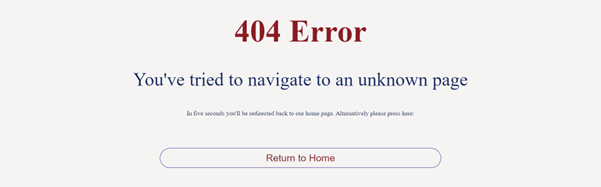
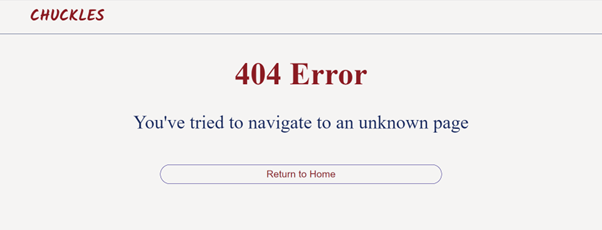
update README images and accessibility section following changes

diff --git a/README.md b/README.md
@@ -1,6 +1,7 @@
 # Chuckles Comedy Club
 
 The Chuckles Comedy Club website is an information website, for a comedy club specialising in American comics, based in London, UK.
+
 This website is designed to provide information about the comedy club such as which acts will be performing, opening hours and how to find the venue
 
 ![am-i-responsive](assets/readme-images/am-i-responsive.png)
@@ -81,7 +82,7 @@ Visit the deployed site here: [Chuckles Comedy Club](<https://gkicks.github.io/c
 
 ## Initial Discussion
 
-Chuckles Comedy Club is a venue where the USP is that the performers are all American comedians. The website is user-friendly and easy to navigate, allowing users to quickly find the information they need.
+Chuckles Comedy Club is a venue where the unique selling point is that the performers are all American comedians. The website is user-friendly and easy to navigate, allowing users to quickly find the information they need.
 
 ### Key Information for the Site
 
@@ -226,7 +227,7 @@ View mobile wireframes on the Figma site: [Mobile](https://www.figma.com/file/rP
 * The footer features on all three main pages of the website as well as the thank you page following the user completing the signup form
 * The footer contain links to the social media sites Facebook, Twitter and Instagram. Chuckles Comedy Club currently doesn’t have social media pages but, once these are created, the links will link to these
 * The styling of the footer reflects that of the header to simplify the user experience
-* Each footer item have an aria link to improve accessibility for those using assistive technology
+* The footer does not contain aria-labels as the words already explain what the link is for
 
 ![Footer screenshot](assets/readme-images/footer.png)
 
@@ -250,14 +251,14 @@ View mobile wireframes on the Figma site: [Mobile](https://www.figma.com/file/rP
 ### Thank You
 
 * The thank you page is displayed when the sign up form is submitted. This gives the user confirmation that their request has been received
-* The thank you page informs the user that they will be redirected back to the home page in five seconds and also gives the option to press a ‘return to home’ button to return to the index.html page
+* There is a 'Return to Home' button so the user can easily navigate back te Home page
 
 ![Thank you screenshot](assets/readme-images/thankyou.png)
 
 ### 404.html
 
 * Following advice from my mentor I added a custom 404.html page. This will be displayed if a user makes a typing error when entering the url of the website
-* The 404.html page informs the user they have tried to navigate to an unknown page and that they will be redirected to the homepage in five seconds. There is also the option for the user to press a 'return to home' button to return to the index.html page
+- There is a 'Return to Home' button so the user can easily navigate back te Home page
 
 ![404 error page screenshot](assets/readme-images/404.png)
 
@@ -267,17 +268,55 @@ View mobile wireframes on the Figma site: [Mobile](https://www.figma.com/file/rP
 * More information about venue facilities – i.e., food and drink menus, disability access
 * Search function to allow users to search the website
 * A FAQ page to be added
+* Transcripts to be added to the audio elements
+* Functionality to be added for a non-technical administrator to be able to upload upcoming acts
+* Social media sites to be developed for Chuckles Comedy Club
 
 ## Accessibility
 
 * All pages use semantic html
-* Aria-labels were used to improve accessibility for those using assistive technology
+* Aria-labels were used to improve accessibility for those using assistive technology. These are in all links apart from those in the footer. This is due to the footer text already telling those using a screen reader where the link would take them
 * I used the Google Chrome extensions:
-  * Wave Evaluation Tool – no errors were detected
   * Web Disability Simulator – simulated the website for people with sight, mobility, reading and writing and concentration disabilities to view the webpage how others could see it. There were no concerns noted in these simulations
   * Screen Reader – Simulated how the website experience would be for a user using a screen reader. There were no concerns noted using this simulation
-  * I used <https://webaim.org/resources/contrastchecker/> to check the contrasts of the colours chosen. This passed for both combinations of red and white (contrast ratio 7
+  * I used https://webaim.org/resources/contrastchecker/ to check the contrasts of the colours chosen. This passed for both combinations of red and white (contrast ratio 7
 .62:1) and blue and white (contrast ratio 12.82:1). This failed for the blue and red combination (contrast ratio 1.68:1) so this was not used in the website
+
+### Wave Validator
+
+I used the Wave validator to check if I could improve the user experience of the webpage for those with disabilities.
+
+#### Home Page
+
+When I first ran the validator there were two alerts but no errors:
+	
+* It detected that the tagline ‘bringing the best, of the US, to the UK!’ was in a paragraph element but looked like a header. I changed the paragraph element to an h2 which resolved this
+
+![wave validation home page](assets/readme-images/wave-homepage.png)
+
+* The second alert was that it was showing that the ‘Home’ nav link was redundant as there was an adjacent link to the same page. This is because the logo also links to the Home Page. I looked at the website https://www.nngroup.com/articles/homepage-links/ that detailed it was best practice for the logo to link to the Home Page, as that’s what user’s have come to expect. I decided to also leave the nav link to the Home Page in as I believe this will make the site easier to navigate, for the majority or users, while having minimal impact on those with disabilities. This alert was the same across all pages
+
+![wave contrast screenshot](assets/readme-images/contrast.png)
+
+#### What's On Page
+
+There were seven alerts and no errors. One alert was due to the redundant home nav link, as above. The other six alerts were due to the audio not having a transcript. I tried to find a way to add a transcript to the audio but was unable to do this without ruining the look of the page. This would be an opportunity for further development
+
+![wave validation what's on page](assets/readme-images/wave-whatson.png)
+
+#### Sign Up Page
+
+When I first ran the validator there were two alerts but no errors. The first alert was due to the redundant home nav link, as above. The second alert was because of an incorrect heading order. Wave showed that there was an h1 element, and two h3 elements, but no h2 element. This was resolved by changing the first h3 element (Sign up for our newsletter…) to an h2 element
+
+![wave validation whats on page](assets/readme-images/wave-signup.png)
+
+#### Thank You Page
+
+This showed one error that the page had a redirect and this can pose difficulties for screen reader users.
+
+![wave validation thank you page](assets/readme-images/wave-thankyou.png)
+
+
 
 [Back to top](#chuckles-comedy-club)
 
